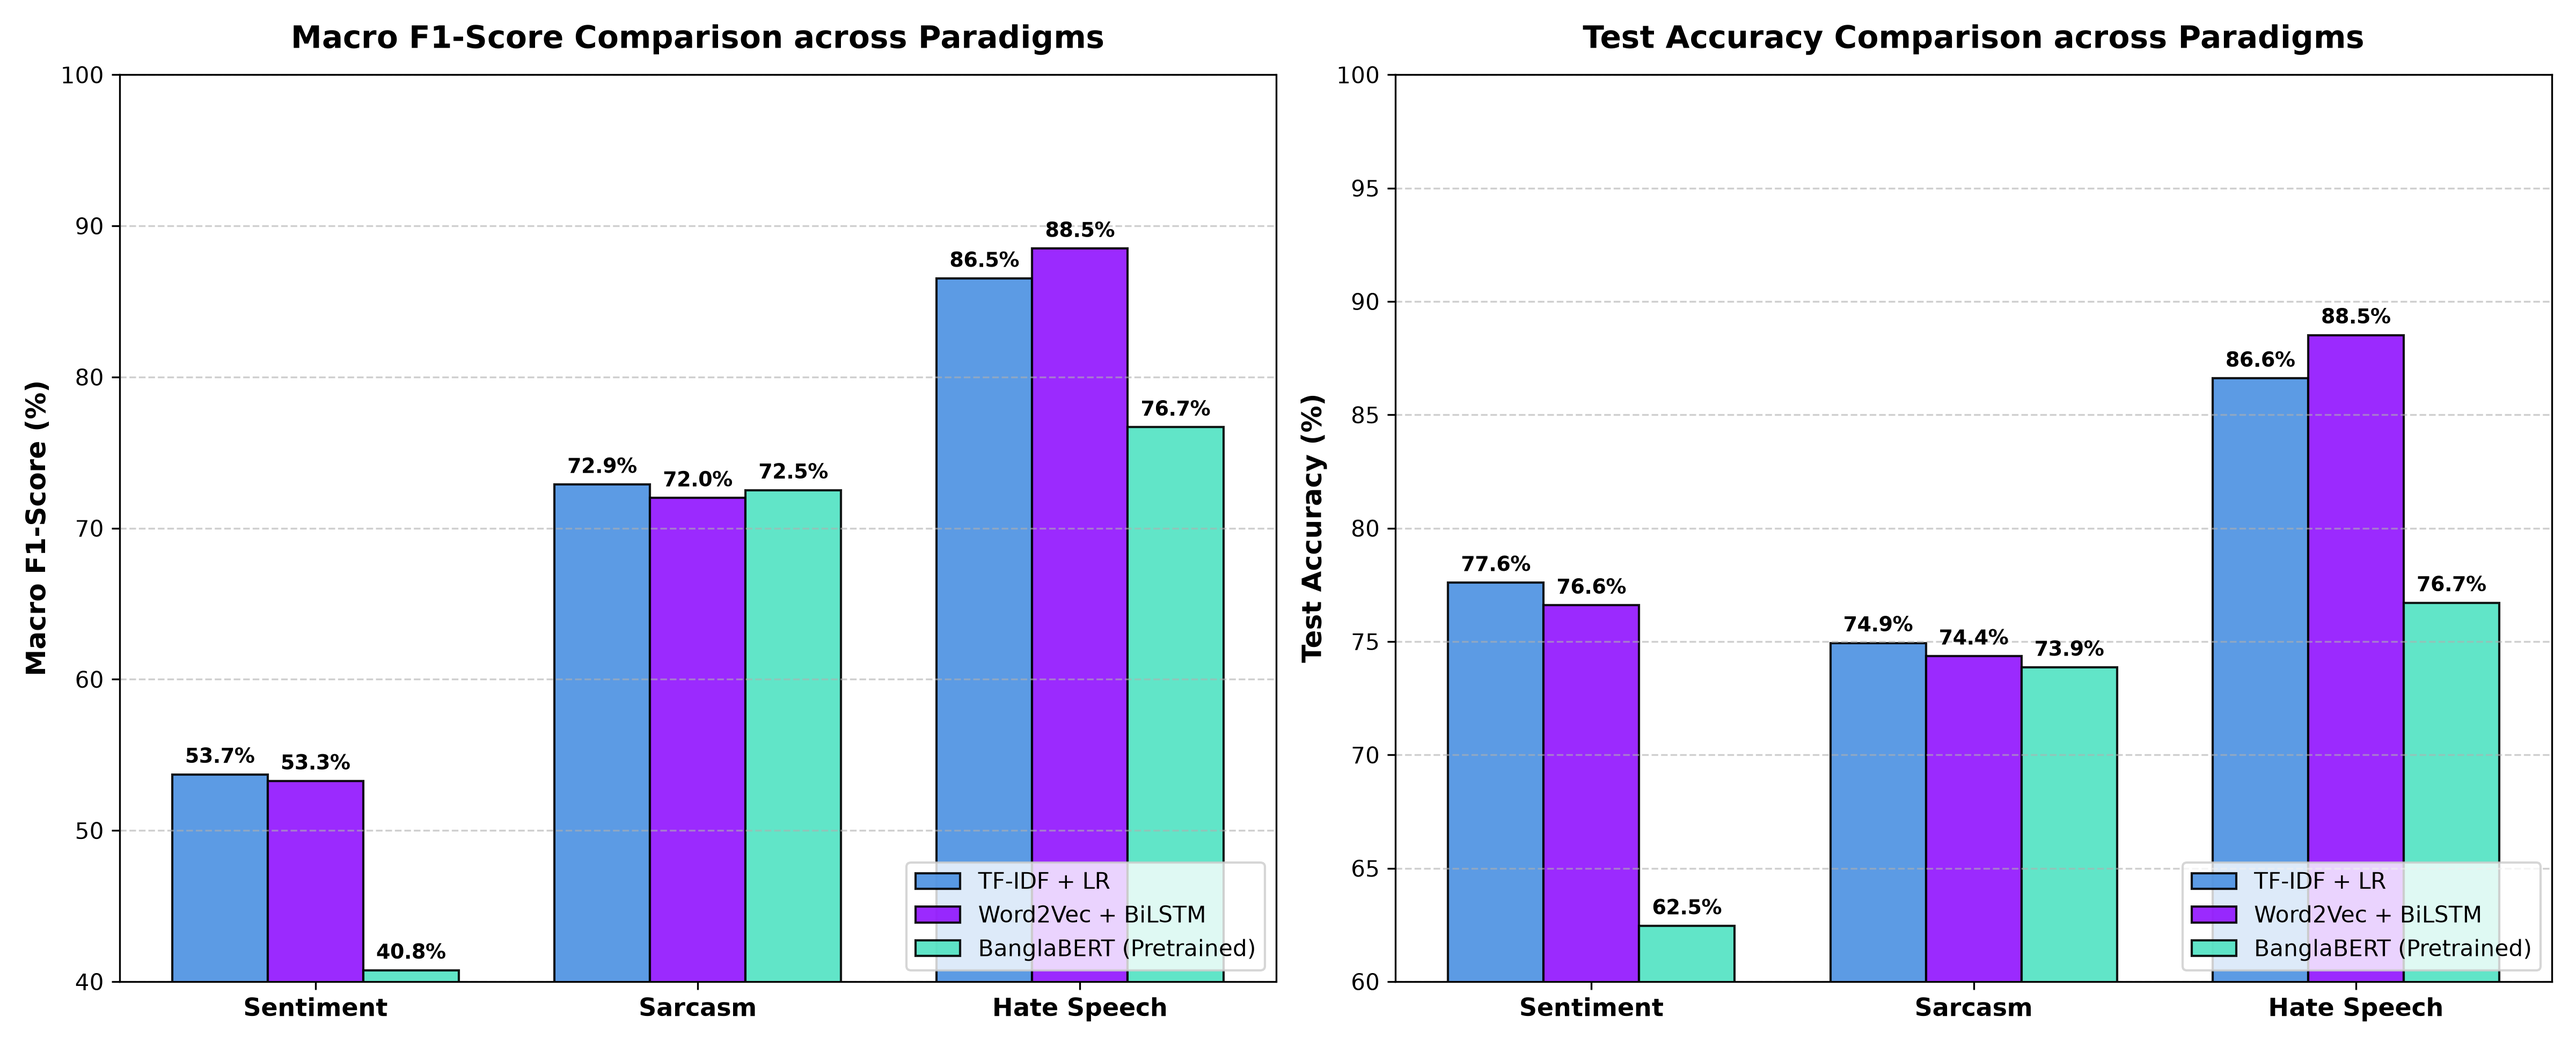
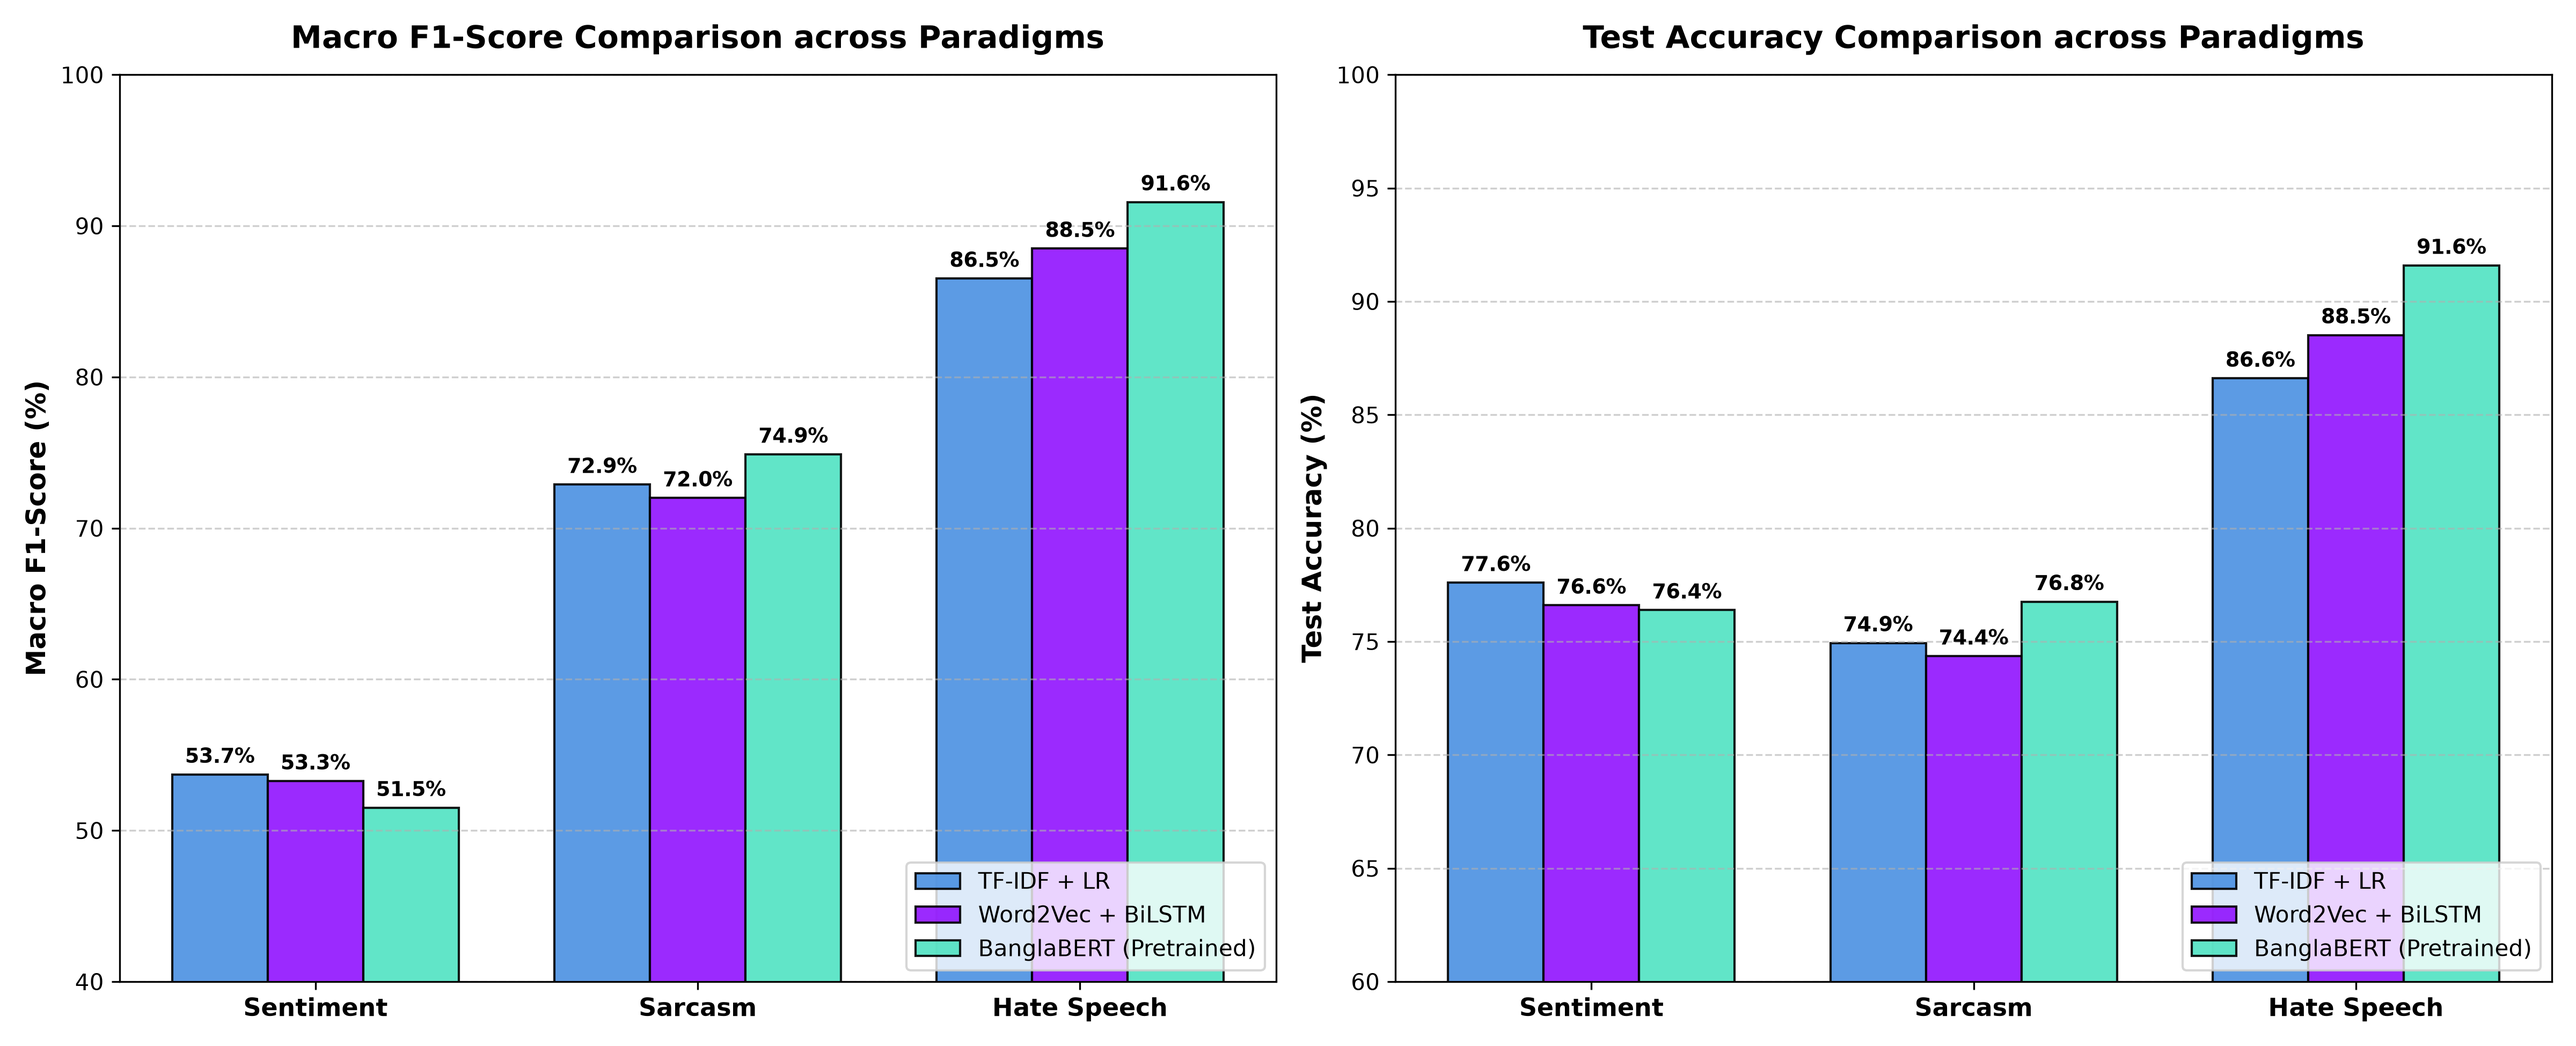
some interface files updated

diff --git a/Project files/app.py b/Project files/app.py
@@ -472,13 +472,23 @@ with tab_eda:
         with open(eda_summary_path, "r", encoding="utf-8") as f:
             eda_data = json.load(f)
 
+        sent_total = sum(eda_data["sentiment"]["splits"][s]["total_rows"] for s in ["train", "val", "test"])
+        sarc_total = sum(eda_data["sarcasm"]["splits"][s]["total_rows"] for s in ["train", "val", "test"])
+        hate_total = sum(eda_data["hate_speech"]["splits"][s]["total_rows"] for s in ["train", "val", "test"])
+
+        sent_train = eda_data["sentiment"]["splits"]["train"]["total_rows"]
+        sarc_train = eda_data["sarcasm"]["splits"]["train"]["total_rows"]
+        hate_train = eda_data["hate_speech"]["splits"]["train"]["total_rows"]
+
         c1, c2, c3 = st.columns(3)
         with c1:
-            st.metric("Total Sentiment Corpus", "312,128 sentences", "90% Positive Skew")
+            st.metric("Total Sentiment Corpus", f"{sent_total:,} sentences", f"Train: {sent_train:,}")
         with c2:
-            st.metric("Total Sarcasm Corpus", "12,096 sentences", "67% Non-Sarc / 33% Sarc")
+            st.metric("Total Sarcasm Corpus", f"{sarc_total:,} sentences", f"Train: {sarc_train:,}")
         with c3:
-            st.metric("Total Hate Speech Corpus", "50,309 sentences", "52% Non-Hate / 48% Hate")
+            st.metric("Total Hate Speech Corpus", f"{hate_total:,} sentences", f"Train: {hate_train:,}")
+
+        st.caption("ℹ *Metric cards reflect the complete corpus across Train + Validation + Test splits. Figure 2 below shows the specific class distributions of the Training splits.*")
 
     st.markdown("---")
     eda_col1, eda_col2 = st.columns(2)

diff --git a/Project files/presentation_slides_outline.md b/Project files/presentation_slides_outline.md
@@ -71,9 +71,9 @@
 - **Slide Title:** Corpus Standardization & Linguistic Preprocessing
 - **Key Content:**
   - **Three Curated Datasets:**
-    - **Sentiment:** 312,128 sentences (Balanced across 90% positive skew using balanced loss weighting).
-    - **Sarcasm:** 12,096 sentences from Bengali social media (BanglaSarc3).
-    - **Hate Speech:** 50,309 sentences from political, religious, and social commentary.
+    - **Sentiment:** 156,010 sentences (109,229 Train, 15,569 Val, 31,212 Test) with ~90% positive skew.
+    - **Sarcasm:** 12,089 sentences from Bengali social media (BanglaSarc3).
+    - **Hate Speech:** 50,272 sentences from political, religious, and social commentary.
   - **Unified Split Protocol:** Strict 80% Train, 10% Validation, 10% Test across all tasks.
   - **Negation-Preserving Preprocessor:**
     - Normalizes Bengali characters, strips noisy URLs, mentions, HTML tags, and non-printable bytes.
@@ -114,7 +114,7 @@
   - 110M parameter pretrained bidirectional transformer encoder.
   - WordPiece subword tokenization (vocabulary: 102,025 tokens), max sequence length $L=64$.
   - Sequence Classification heads fine-tuned with AdamW ($\text{lr} = 2 \times 10^{-5}$), linear warmup scheduler, and balanced cross-entropy.
-  - **Key Result:** **Highest Sarcastic Class Recall (78.05%)** across all paradigms. Captures subtle contrast between praise prefix and disappointing suffix.
+  - **Key Result:** **Champion in Hate Speech (91.59% Accuracy, 91.58% Macro F1)** and **Sarcasm (76.76% Accuracy, 74.89% Macro F1)**. Captures subtle contextual semantics and complex abusive patterns.
 
 ---
 
@@ -125,13 +125,13 @@
   | :--- | :--- | :---: | :---: | :---: |
   | **Sentiment** | **TF-IDF + Logistic Regression** | **77.60%** | **53.71%** | **82.24%** |
   | Sentiment | Word2Vec + Stacked BiLSTM | 76.60% | 53.27% | 81.96% |
-  | Sentiment | Fine-Tuned BanglaBERT | 62.46% | 40.75% | 70.95% |
-  | **Sarcasm** | **TF-IDF + Logistic Regression** | **74.94%** | **72.89%** | **75.40%** |
+  | Sentiment | Fine-Tuned BanglaBERT | 76.39% | 51.51% | 81.29% |
+  | Sarcasm | TF-IDF + Logistic Regression | 74.94% | 72.89% | 75.40% |
   | Sarcasm | Word2Vec + Stacked BiLSTM | 74.36% | 72.00% | 74.74% |
-  | Sarcasm | Fine-Tuned BanglaBERT | 73.86% | 72.52% | 74.57% *(Recall: 78.1%)* |
-  | **Hate Speech**| TF-IDF + Logistic Regression | 86.61% | 86.52% | 86.57% |
-  | **Hate Speech**| **Word2Vec + Stacked BiLSTM** | **88.52%** | **88.50%** | **88.52%** |
-  | Hate Speech| Fine-Tuned BanglaBERT | 76.71% | 76.68% | 76.71% |
+  | **Sarcasm** | **Fine-Tuned BanglaBERT** | **76.76%** | **74.89%** | **77.19%** |
+  | Hate Speech| TF-IDF + Logistic Regression | 86.61% | 86.52% | 86.57% |
+  | Hate Speech| Word2Vec + Stacked BiLSTM | 88.52% | 88.50% | 88.52% |
+  | **Hate Speech**| **Fine-Tuned BanglaBERT** | **91.59%** | **91.58%** | **91.59%** |
 
 ---
 

diff --git a/Project files/master_benchmark.md b/Project files/master_benchmark.md
@@ -6,10 +6,10 @@ Comprehensive benchmark across all three modeling paradigms on identical officia
 | :--- | :--- | :---: | :---: | :---: | :---: | :---: |
 | **Sentiment** | TF-IDF + Logistic Regression | 77.60% | 50.78% | 67.13% | **53.71%** | 82.24% |
 | **Sentiment** | Word2Vec + Stacked BiLSTM | 76.60% | 52.75% | 63.23% | **53.27%** | 81.96% |
-| **Sentiment** | Fine-Tuned BanglaBERT | 62.46% | 41.95% | 56.57% | **40.75%** | 70.95% |
+| **Sentiment** | Fine-Tuned BanglaBERT | 76.39% | 48.81% | 64.57% | **51.51%** | 81.29% |
 | **Sarcasm** | TF-IDF + Logistic Regression | 74.94% | 72.37% | 74.09% | **72.89%** | 75.40% |
 | **Sarcasm** | Word2Vec + Stacked BiLSTM | 74.36% | 71.53% | 72.84% | **72.00%** | 74.74% |
-| **Sarcasm** | Fine-Tuned BanglaBERT | 73.86% | 72.34% | 74.92% | **72.52%** | 74.57% |
+| **Sarcasm** | Fine-Tuned BanglaBERT | 76.76% | 74.30% | 76.21% | **74.89%** | 77.19% |
 | **Hate Speech** | TF-IDF + Logistic Regression | 86.61% | 86.96% | 86.42% | **86.52%** | 86.57% |
 | **Hate Speech** | Word2Vec + Stacked BiLSTM | 88.52% | 88.54% | 88.47% | **88.50%** | 88.52% |
-| **Hate Speech** | Fine-Tuned BanglaBERT | 76.71% | 76.68% | 76.69% | **76.68%** | 76.71% |
+| **Hate Speech** | Fine-Tuned BanglaBERT | 91.59% | 91.56% | 91.60% | **91.58%** | 91.59% |
